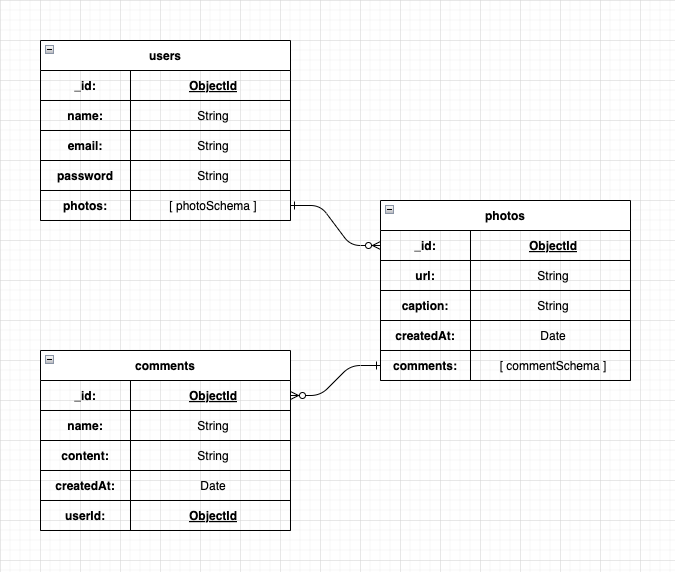
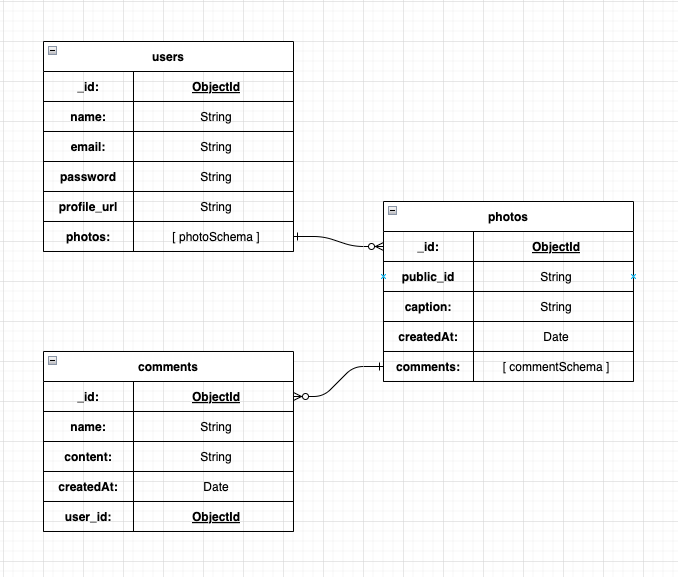
udpate readme and erd

diff --git a/README.md b/README.md
@@ -12,33 +12,33 @@ The API we chose to use is Cloudinary. We will be using this API to allow users 
 
 # Restful Routing Chart - back-end
 
-| **CRUD** | **URL**                | **DESCRIPTION**                         |
-| -------- | ---------------------- | --------------------------------------- |
-| POST     | /api-v1/users/register | Adds a new user to database             |
-| POST     | /api-v1/users/login    | Logs in the user, sends back a token  |
-| GET      | /api-v1/users/:id      | Reading user document corresponding to ID |
-| GET      | /api-v1/feed       | Reads all user documents with picture subdocs|
-| POST     | /api-v1/pictures | Creates picture subdoc in current user document|
-| GET      | /api-v1/pictures/:id   | Read picture document corresponding to ID |
-| PUT      | /api-v1/pictures/:id   | Updates picture caption corresponding to ID|
-| DELETE   | /api-v1/pictures/:id | Delete individul picture post corresponding to ID|
-| POST     | /api-v1/comments       | Add comments to an individual picture    |
-| PUT      | /api-v1/comments/:id   | Updates comment corresponding to ID       |
-| DELETE   | /api-v1/comments/:id   | Deletes comment corresponding to ID       |
+| **CRUD** | **URL**                | **DESCRIPTION**                                    |
+| -------- | ---------------------- | -------------------------------------------------- |
+| POST     | /api-v1/users/register | Adds a new user to database                        |
+| POST     | /api-v1/users/login    | Logs in the user, sends back a token               |
+| GET      | /api-v1/users          | Reads all user documents with picture subdocs      |
+| GET      | /api-v1/users/:id      | Reading user document corresponding to ID          |
+| POST     | /api-v1/pictures       | Creates picture subdoc in current user document    |
+| GET      | /api-v1/pictures/:id   | Read picture document corresponding to ID          |
+| PUT      | /api-v1/pictures/:id   | Updates picture caption corresponding to ID        |
+| DELETE   | /api-v1/pictures/:id   | Delete individul picture post corresponding to ID  |
+| POST     | /api-v1/comments       | Add comments to an individual picture              |
+| PUT      | /api-v1/comments/:id   | Updates comment corresponding to ID                |
+| DELETE   | /api-v1/comments/:id   | Deletes comment corresponding to ID                |
 
 # Restful Routing Chart - front-end
 
-| **CRUD** | **URL**                | **DESCRIPTION**                         |
-| -------- | ---------------------- | --------------------------------------- |
-| GET     | /        |  Renders a landing page                               |
-| GET     | /login   | Renders a login form                                  |
-| GET      | /register     | Renders a register form                       |
-| GET      | /about         | Renders an About page with bio components     |
-| GET     | /feed     | Renders all users with slideshow component            |
-| GET      | /profiles/:id  | Renders specific user with all photo component |
-| GET      | /pictures/:id   | Renders photo detail page with comments component|
-| GET      | /pictures/new   | Renders a photo upload form |
-| GET      | /pictures/:id/edit   | Renders a caption update form |
+| **CRUD** | **URL**             | **DESCRIPTION**                                    |
+| -------- | ------------------- | -------------------------------------------------- |
+| GET      | /                   |  Renders a landing page                            |
+| GET      | /login              | Renders a login form                               |
+| GET      | /register           | Renders a register form                            |
+| GET      | /about              | Renders an About page with bio components          |
+| GET      | /feed               | Renders all users with slideshow component         |
+| GET      | /profiles/:id       | Renders specific user with all photo component     |
+| GET      | /pictures/:id       | Renders photo detail page with comments component  |
+| GET      | /pictures/new       | Renders a photo upload form                        |
+| GET      | /pictures/:id/edit  | Renders a caption update form                      |
 
 
 
